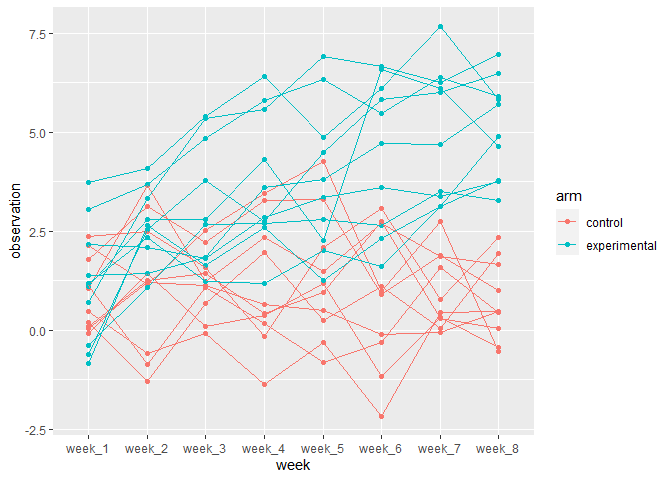
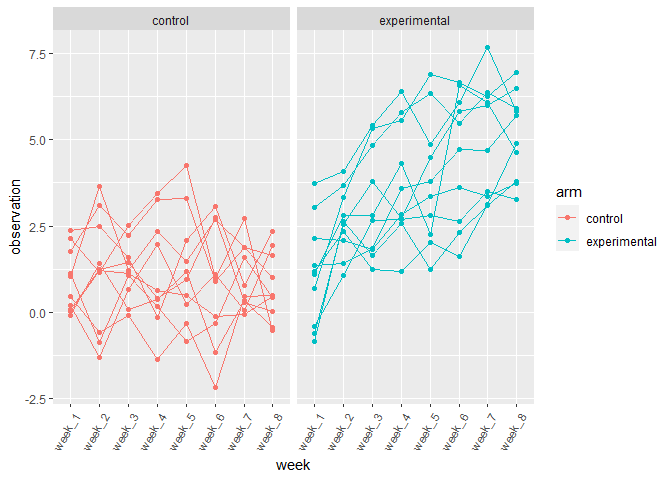
edit

diff --git a/p8105_hw5_hh3043.md b/p8105_hw5_hh3043.md
@@ -90,7 +90,9 @@ files = tibble(
 files|>
   group_by(subject_id)|>
   ggplot(aes(x = week,y = observation,group = subject_id,color = arm)) +
-  geom_point()+geom_line()
+  geom_point()+geom_line()+
+  facet_grid(~arm)+
+  theme(axis.text.x = element_text(angle = 60, hjust = 1))
 ```
 
 ![](p8105_hw5_hh3043_files/figure-gfm/unnamed-chunk-4-1.png)<!-- -->
@@ -173,7 +175,15 @@ sim_results_df|>
 
 ![](p8105_hw5_hh3043_files/figure-gfm/unnamed-chunk-6-2.png)<!-- -->
 
-according to the plot, the sample average of μ hat across tests for
-which the null is rejected approximately equal to the true value of μ.
-It is because that these rejected μ hat distribute symmetrically about
-the true μ value.
+according to the plot, In general,the sample average of μ hat across
+tests for which the null is rejected approximately equal to the true
+value of μ for larger mu value and 0 mu value,and it is less approximate
+for small value such as 1 and 2. It is because when true mean is small,
+the effect size is small. Then the power is less. Thus relatively large
+mu hat will be out of the confidence interval. For larger mu, the effect
+size and power will be larger, then there are more samples with rejected
+null. The higher the proportion of these samples in the whole sample,
+the more approximate of these mu hat to the true mean. For mu value 0
+,mu hat is approximate to the true mean because the null hypothesis of
+value of mean is equal to true mean,then the samples with rejected null
+are distributed symmetrically.
